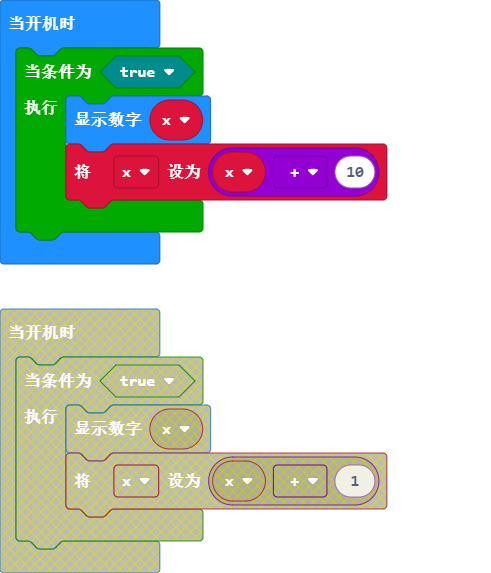
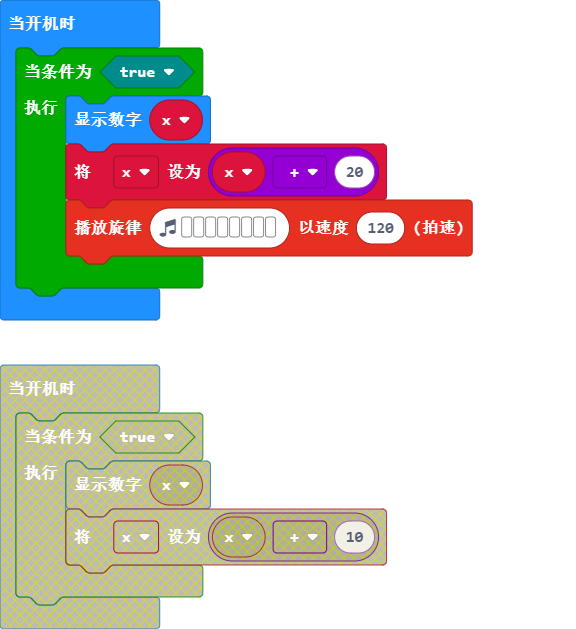
增加了音乐

diff --git a/main.ts b/main.ts
@@ -2,4 +2,5 @@ let x = 0
 while (true) {
     basic.showNumber(x)
     x = x + 20
+    music.playMelody("- - - - - - - - ", 120)
 }
